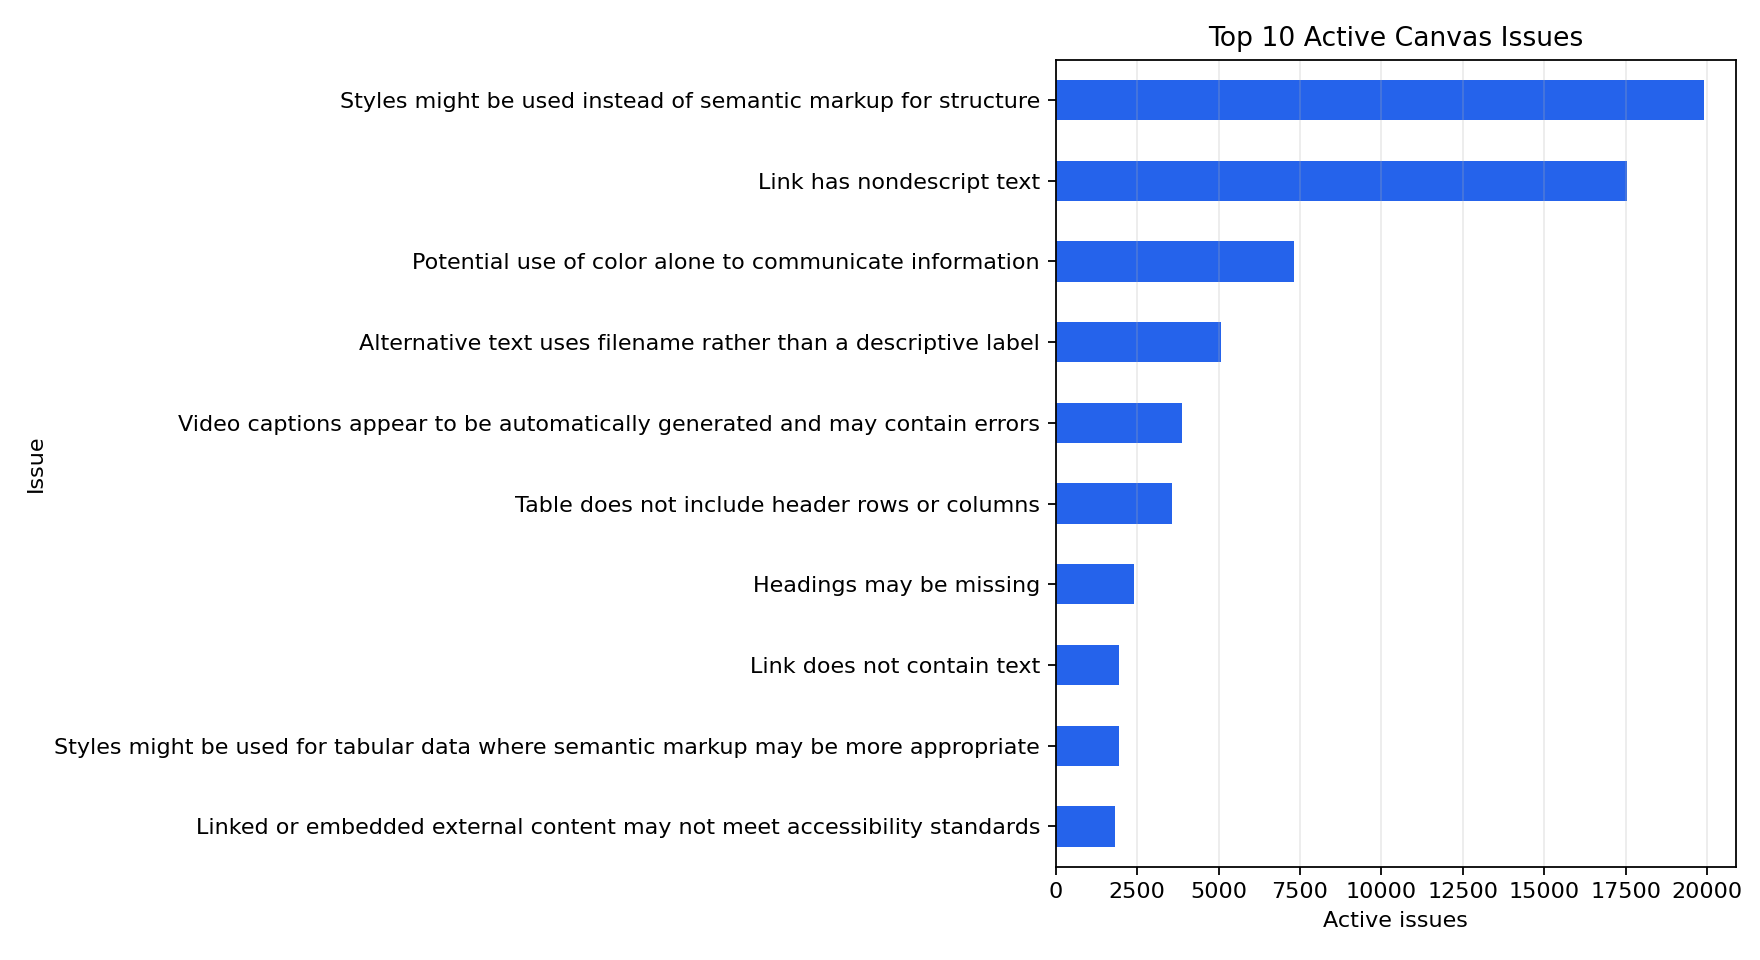
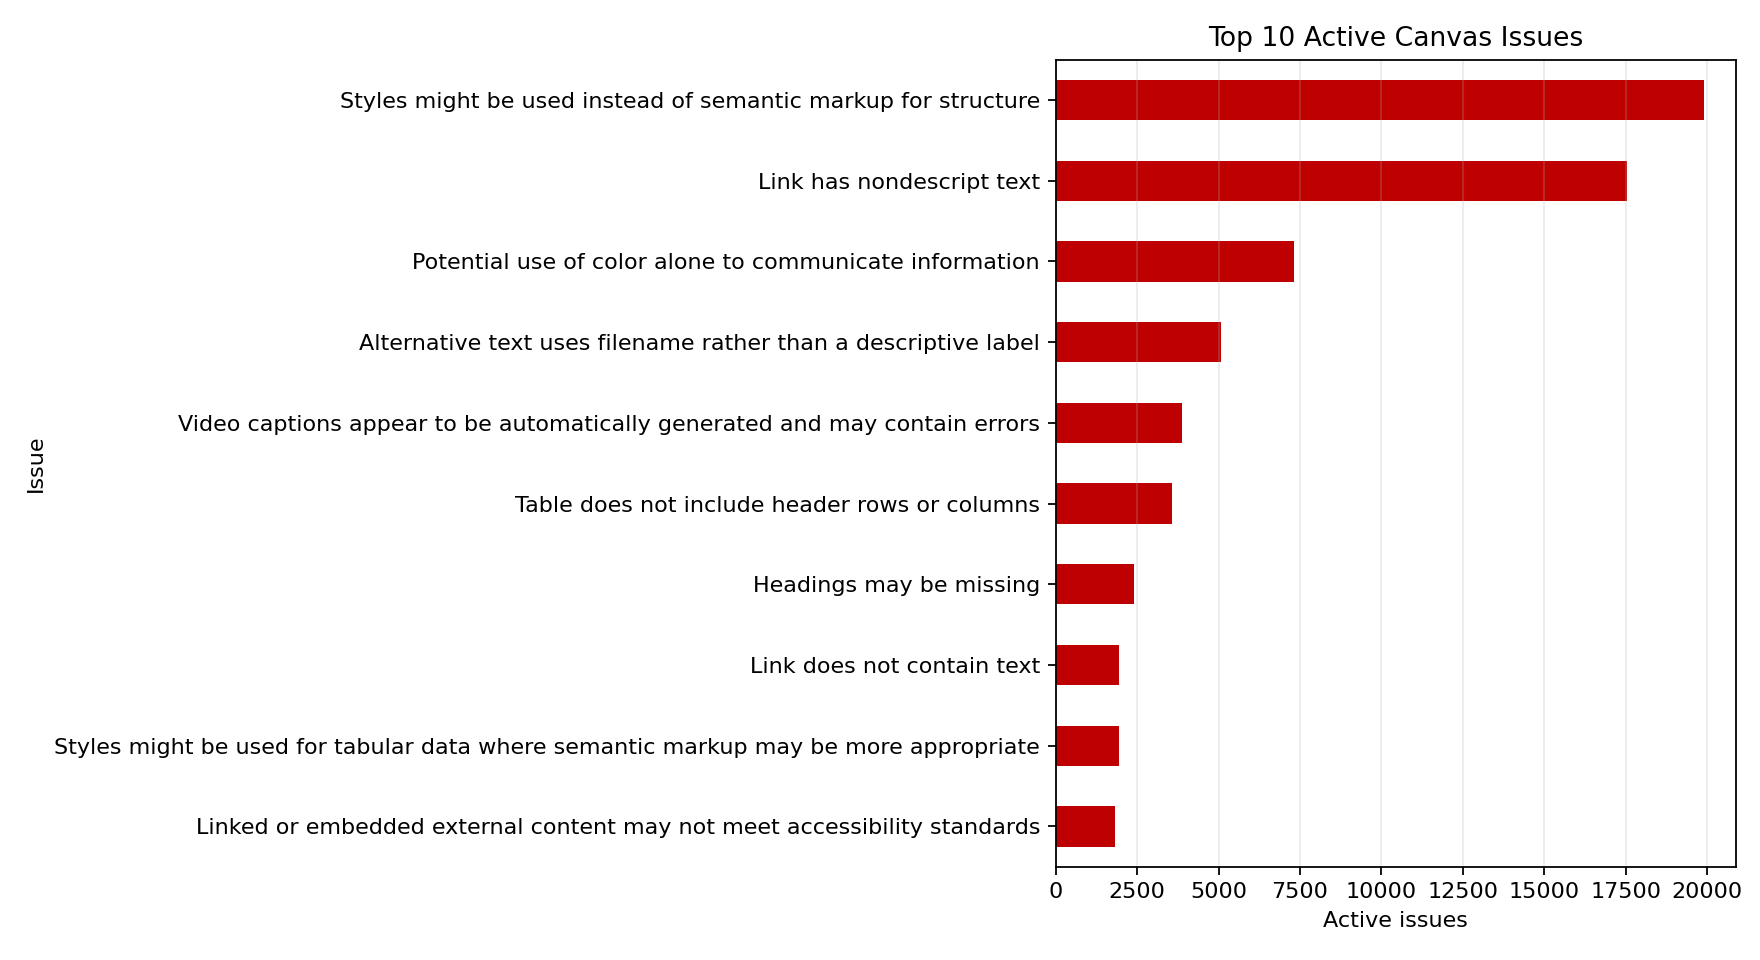
Add data-driven Fantasia roadmap

diff --git a/deprecated/Accessibility/analytics/issue_report.py b/deprecated/Accessibility/analytics/issue_report.py
@@ -16,6 +16,9 @@ BASE_DIR = Path(__file__).resolve().parent
 CANVAS_CSV = BASE_DIR / "Canvas issues.csv"
 FILE_CSV = BASE_DIR / "file_issues.csv"
 OUT_DIR = BASE_DIR / "issue_report_output"
+BRAND_PRIMARY = "#BE0000"
+BRAND_SECONDARY = "#FFB81D"
+BRAND_NEUTRAL = "#5F5F5F"
 
 
 def read_csv(path: Path) -> pd.DataFrame:
@@ -39,10 +42,10 @@ def numeric(series: pd.Series) -> pd.Series:
 def save_bar(series: pd.Series, title: str, xlabel: str, output: Path, horizontal: bool = True) -> None:
     fig, ax = plt.subplots(figsize=(11, 6))
     if horizontal:
-        series.sort_values().plot(kind="barh", ax=ax, color="#2563eb")
+        series.sort_values().plot(kind="barh", ax=ax, color=BRAND_PRIMARY)
         ax.set_xlabel(xlabel)
     else:
-        series.plot(kind="bar", ax=ax, color="#2563eb")
+        series.plot(kind="bar", ax=ax, color=BRAND_PRIMARY)
         ax.set_ylabel(xlabel)
         ax.tick_params(axis="x", labelrotation=20)
     ax.set_title(title)
@@ -54,8 +57,15 @@ def save_bar(series: pd.Series, title: str, xlabel: str, output: Path, horizonta
 
 def save_pie(series: pd.Series, title: str, output: Path) -> None:
     fig, ax = plt.subplots(figsize=(7, 7))
-    series.plot(kind="pie", ax=ax, autopct="%1.1f%%", startangle=90)
-    ax.set_ylabel("")
+    total = series.sum()
+    wedges, _, _ = ax.pie(
+        series.values,
+        autopct=lambda percent: f"{percent:.1f}%" if percent >= 2 else "",
+        colors=[BRAND_PRIMARY, BRAND_SECONDARY, BRAND_NEUTRAL],
+        startangle=90,
+    )
+    labels = [f"{label}: {int(value):,} ({value / total:.1%})" for label, value in series.items()]
+    ax.legend(wedges, labels, loc="lower center", bbox_to_anchor=(0.5, -0.08), ncol=1)
     ax.set_title(title)
     fig.tight_layout()
     fig.savefig(output, dpi=160)
@@ -147,7 +157,7 @@ def main() -> int:
         *file_lines,
         "",
         "Charts",
-        *[f"- {path}" for path in {**canvas_charts, **file_charts}.values()],
+        *[f"- {path.name}" for path in {**canvas_charts, **file_charts}.values()],
     ]
 
     report_path = OUT_DIR / "summary.txt"

diff --git a/ROADMAP.md b/ROADMAP.md
@@ -1,0 +1,94 @@
+# Project Fantasia roadmap
+
+This roadmap turns the May 22, 2026 UDOIT export into an implementation order for Wand, Magic, and Sorcerer. Counts describe findings, not unique pages or estimated engineering effort, so they are priority signals rather than delivery promises.
+
+> [!NOTE]
+> Status legend: **✅ Shipped** is released; **🧪 In testing** is implemented and awaiting field validation; **🚧 In progress** is actively being built; **📋 Planned** is ordered but not started; **⏸ Deferred** is intentionally outside the current phase.
+
+## What the data says
+
+- Canvas has **72,333 active findings** out of 73,293 observed statuses (**98.7% active**): 43,815 suggestions and 28,518 errors.
+- Wand's current five remediation types represent **53,669 active findings**, or **74.2%** of the active Canvas backlog.
+- The two largest Canvas findings alone—styled headings and nondescript links—represent **37,416 findings**, or **51.7%** of the active backlog.
+- Files account for **43,875 findings**: PDF 19,822 (45.2%), DOC 16,101 (36.7%), PPT 7,603 (17.3%), and XLS 349 (0.8%).
+- PDF title and tagging problems account for **17,809 findings**, or **89.8%** of PDF findings, across 451–456 courses.
+- DOC title and heading problems account for **12,683 findings**, or **78.8%** of DOC findings, across 346–368 courses.
+- Missing PowerPoint image alternative text accounts for **7,225 findings**, or **95.0%** of PPT findings, across 290 courses.
+
+| Canvas priorities | File priorities |
+| --- | --- |
+| ![Top active Canvas issues](deprecated/Accessibility/analytics/issue_report_output/canvas_top_active_issues.png) | ![Top file issues](deprecated/Accessibility/analytics/issue_report_output/file_top_issues.png) |
+
+<details>
+<summary>View the remaining source charts</summary>
+
+![Active Canvas issues by severity](deprecated/Accessibility/analytics/issue_report_output/canvas_active_by_severity.png)
+
+![Canvas issues by status](deprecated/Accessibility/analytics/issue_report_output/canvas_status_totals.png)
+
+![File issues by file type](deprecated/Accessibility/analytics/issue_report_output/file_totals_by_type.png)
+
+![Courses affected by file type](deprecated/Accessibility/analytics/issue_report_output/file_scanned_courses_by_type.png)
+
+</details>
+
+## Product boundaries
+
+| Application | Best use | Current boundary |
+| --- | --- | --- |
+| **Wand** | Interactive, context-aware remediation while a reviewer works in UDOIT and Canvas | Canvas content and UDOIT workflows; file repair stays out of the extension |
+| **Magic** | Local, reviewer-controlled processing where files or sensitive exports remain on the user's computer | Single-user jobs with previews, confirmations, and recoverable output |
+| **Sorcerer** | Centrally managed bulk processing, queues, reporting, retries, and governance | Build only after Magic proves safe repair operations and review rules |
+
+## Wand roadmap
+
+| Priority | Capability | Evidence | Status | Exit criteria |
+| :-: | --- | --- | :-: | --- |
+| P0 | Styled-heading remediation | 19,889 findings / 474 courses | **🧪 In testing** | Correct Canvas item opens, target is selected, save/next remains synchronized |
+| P0 | Nondescript-link cleanup | 17,527 / 495 | **🧪 In testing** | Safe suggestion is applied without auto-saving; unsupported text fails visibly |
+| P0 | Color-only identification and optional bold cue | 7,308 / 234 | **🧪 In testing** | Correct content is selected; reviewer explicitly applies and saves any cue |
+| P0 | Filename-based image alternative-text cleanup | 5,070 / 298 | **🧪 In testing** | Filename cleanup is suggested with visible confirmation and no automatic save |
+| P0 | Automatically generated caption review | 3,875 / 245 | **🧪 In testing** | Correct media opens; platform and UDOIT recheck actions work or fail visibly |
+| P0 | Cross-workflow hardening | Protects all current modes | **🚧 In progress** | Test-course regression passes; loading, timeout, toast, logging, reload, and next-issue behavior are reliable |
+| P1 | Table header rows and columns | 3,567 / 276 | **📋 Planned** | Identify the table and provide safe header guidance or an explicit reviewed edit |
+| P1 | Missing headings and skipped heading levels | 4,035 combined; up to 377 courses | **📋 Planned** | Identify the location and guide a valid heading hierarchy without guessing structure |
+| P1 | Links with no text | 1,954 / 304 | **📋 Planned** | Identify the link and require descriptive text before resolution |
+| P2 | Insufficient color contrast | 1,562 / 127 | **📋 Planned** | Report measured colors and suggest a compliant branded alternative for review |
+| P2 | Missing video captions | 1,044 / 164 | **📋 Planned** | Open the correct media workflow and verify refreshed UDOIT status |
+| P2 | Styled tabular data and external-content review | 3,760 combined | **📋 Planned** | Prioritize reliable identification and guidance; do not claim third-party content was repaired |
+| — | PDF, DOC, PPT, and XLS repair inside Wand | Covered by Magic/Sorcerer | **⏸ Deferred** | Remains outside the extension |
+
+## Magic roadmap
+
+| Priority | Capability | Evidence | Status | Exit criteria |
+| :-: | --- | --- | :-: | --- |
+| P0 | MHA Competencies workbook workflow | Existing operational need | **✅ Shipped** | Preserve current workflow while accessibility jobs are added independently |
+| P1 | Shared file-job framework | Foundation for 43,875 findings | **📋 Planned** | Dry run, backup/output separation, per-file result, cancellation, and summary report |
+| P1 | PDF title repair | 8,994 / 456 | **📋 Planned** | Detect missing title, propose metadata, preserve the original, and verify output |
+| P1 | PDF tagging/navigation workflow | 8,815 / 451 | **📋 Planned** | Run approved tagging engine, surface failures, and require review before replacement |
+| P1 | DOC title and heading repair | 12,683 combined; up to 368 courses | **📋 Planned** | Apply reviewed metadata/heading changes with a before-and-after report |
+| P1 | PPT image alternative-text review | 7,225 / 290 | **📋 Planned** | Inventory images, collect or generate reviewer-approved descriptions, and verify saved output |
+| P2 | Image-based PDF OCR and review | 1,518 / 196 | **📋 Planned** | Create searchable output and flag low-confidence pages for human review |
+| P2 | DOC image alt text and table headers | 2,196 combined | **📋 Planned** | Provide item-by-item review and structural verification |
+| P2 | Legacy DOC/PPT/XLS conversion | 1,838 combined | **📋 Planned** | Convert to modern formats without overwriting originals and report compatibility failures |
+| — | Password-protected files | 435 / 92 | **⏸ Deferred** | Report and route to the owner; never bypass protection |
+
+## Sorcerer roadmap
+
+| Priority | Capability | Evidence | Status | Exit criteria |
+| :-: | --- | --- | :-: | --- |
+| P0 | Architecture and governance | Bulk work may affect hundreds of courses | **📋 Planned** | Define authentication, authorization, storage lifetime, audit logs, rollback, and approval gates |
+| P1 | Job queue and worker contract | Needed before any safe batch remediation | **📋 Planned** | Retryable, idempotent jobs with progress, cancellation, timeouts, and structured errors |
+| P1 | Reviewer dashboard | 43,875 file findings need triage | **📋 Planned** | Filter by course/type/severity; preview proposed changes; approve or reject batches |
+| P1 | PDF title/tagging at scale | 17,809 findings across 451–456 courses | **📋 Planned** | Reuse proven Magic operations with backups, sampled QA, and downloadable reports |
+| P2 | DOC and PPT batch remediation | 19,908 combined title/heading/PPT-alt findings | **📋 Planned** | Reuse proven Magic operations with per-file review exceptions and rollback |
+| P2 | Canvas handoff and status reconciliation | 98.7% of observed Canvas statuses remain active | **📋 Planned** | Track attempted, verified, rejected, and failed outcomes without auto-resolving unverified issues |
+| P3 | Scheduling, analytics, and prioritization | Sustained institutional operation | **📋 Planned** | Scheduled runs, trend reporting, course-owner routing, and impact metrics |
+
+## Delivery order
+
+1. Finish Wand P0 field validation on Rafael's Test Course and release the five current remediations.
+2. Build Magic's shared safe file-job framework, then implement PDF title/tagging, DOC title/headings, and PPT alternative-text review in that order.
+3. Add Wand P1 Canvas remediations in order of reach and safe automation potential.
+4. Start Sorcerer only after at least one Magic file remediation has reliable validation, reporting, and rollback behavior.
+5. Re-run the analytics export after each release cycle and revise priorities when issue counts or completion rates materially change.

diff --git a/README.md b/README.md
@@ -8,11 +8,14 @@
 
 Project Fantasia is a suite of tools that help the Eccles instructional design team find and fix all kinds of course issues and automate repetitive work, across UDOIT, Canvas, and beyond. It has three parts:
 
+> [!TIP]
+> See the **[data-driven roadmap](ROADMAP.md)** for priorities, status, evidence, and release criteria across all three applications.
+
 | Tool | What it is | Status |
 | --- | --- | :-: |
-| 🪄 **Wand** | Chrome extension that spots issues and helps fix them right inside UDOIT and Canvas | 🟢 **Available now (v1.0.1)** |
-| 🔮 **Magic** | Windows desktop app for running accessibility and data automation scripts on your own machine | 🟢 **Available now (v1.0.0)** |
-| 🧙 **Sorcerer** | Server + web dashboard for sending automation jobs in bulk (auto-tag PDFs and more) | ⚪ Planned |
+| 🪄 **Wand** | Chrome extension that spots issues and helps fix them right inside UDOIT and Canvas | **🧪 In testing (v1.1.0)** |
+| 🔮 **Magic** | Windows desktop app for running accessibility and data automation scripts on your own machine | **✅ Shipped (v1.0.0)** |
+| 🧙 **Sorcerer** | Server + web dashboard for sending automation jobs in bulk (auto-tag PDFs and more) | **📋 Planned** |
 
 > This guide covers both **Wand** and **Magic**, the tools you can use today.
 
@@ -20,7 +23,7 @@ Project Fantasia is a suite of tools that help the Eccles instructional design t
 
 # 🪄 Wand
 
-**Fantasia v1.0.0**
+**Wand v1.1.0**
 
 Wand is a Chrome extension that spots course issues in UDOIT and helps you fix them in Canvas, fast. It starts with accessibility and grows to cover more kinds of issues and automations over time.
 
@@ -29,8 +32,8 @@ Wand is a Chrome extension that spots course issues in UDOIT and helps you fix t
 ## ⬇ Download
 
 1. Go to the **[Releases page](../../releases)**.
-2. Open the latest release (**Fantasia v1.0.0**).
-3. Under **Assets**, click **`wand-extension-v1.0.0.zip`** to download it.
+2. Open the latest Wand release (**v1.1.0**).
+3. Under **Assets**, click **`wand-extension-v1.1.0.zip`** to download it.
 
 That's it for downloading. Now let's install it. 👇
 
@@ -41,7 +44,7 @@ That's it for downloading. Now let's install it. 👇
 > 💡 You only do this once. It takes about 2 minutes. No tech skills needed.
 
 ### Step 1. Unzip the file you downloaded
-Find **`wand-extension-v1.0.0.zip`** in your **Downloads** folder. **Right-click it, then "Extract All"** (Windows) or **double-click it** (Mac). You'll get a folder. Remember where it is!
+Find **`wand-extension-v1.1.0.zip`** in your **Downloads** folder. **Right-click it, then "Extract All"** (Windows) or **double-click it** (Mac). You'll get a folder. Remember where it is!
 
 <!-- 📸 SCREENSHOT HERE: the unzipped folder showing manifest.json, content.js, etc. -->
 
@@ -88,6 +91,7 @@ You'll see **Wand** appear in your list of extensions. 🎉
 | I don't see the Wand bar | Refresh the UDOIT/Canvas tab after installing. |
 | "Load unpacked" did nothing | Make sure you picked the **unzipped folder**, not the `.zip` file. |
 | It disappeared after restart | Re-open `chrome://extensions` and check it's still toggled **ON**. |
+| A remediation opens the wrong content | Record the UDOIT issue name, source title, Wand toast, and any `[wand]` browser-console entry, then flag it to the team. |
 
 Still stuck? Ping the team. 💬
 
@@ -160,16 +164,18 @@ Still stuck? Ping the team. 💬
 
 ---
 
-## 🗺 Roadmap, our "Top 5" remediations
+## 🗺 Current Wand milestone
 
-We're starting with accessibility. These are the first five UDOIT issues we're teaching Wand to fix automatically, in priority order, with more issue types and automations to follow:
+These five UDOIT issue types account for 53,669 active findings—74.2% of the measured active Canvas backlog. Implementation is complete and field validation is in progress:
 
 | # | Remediation | Status |
 | :-: | --- | --- |
-| 1 | Styles might be used instead of semantic markup for structure | 🟡 **Done, in testing** |
-| 2 | Link has nondescript text | ⚪ Planned |
-| 3 | Potential use of color alone to communicate information | ⚪ Planned |
-| 4 | Alternative text uses filename rather than a descriptive label | ⚪ Planned |
-| 5 | Video captions appear to be automatically generated and may contain errors | ⚪ Planned |
+| 1 | Styles might be used instead of semantic markup for structure | **🧪 In testing** |
+| 2 | Link has nondescript text | **🧪 In testing** |
+| 3 | Potential use of color alone to communicate information | **🧪 In testing** |
+| 4 | Alternative text uses filename rather than a descriptive label | **🧪 In testing** |
+| 5 | Video captions appear to be automatically generated and may contain errors | **🧪 In testing** |
 
-**Legend:** 🟢 Shipped &nbsp;•&nbsp; 🟡 Done, in testing &nbsp;•&nbsp; ⚪ Planned
+**Legend:** ✅ Shipped &nbsp;•&nbsp; 🧪 In testing &nbsp;•&nbsp; 🚧 In progress &nbsp;•&nbsp; 📋 Planned &nbsp;•&nbsp; ⏸ Deferred
+
+Wand intentionally leaves file-based PDF, Word, PowerPoint, and spreadsheet remediation to Magic and Sorcerer. See the **[full three-application roadmap](ROADMAP.md)** for the next prioritized work and [`fantasia/wand/TESTING.md`](fantasia/wand/TESTING.md) for the current signed-in regression checklist.
